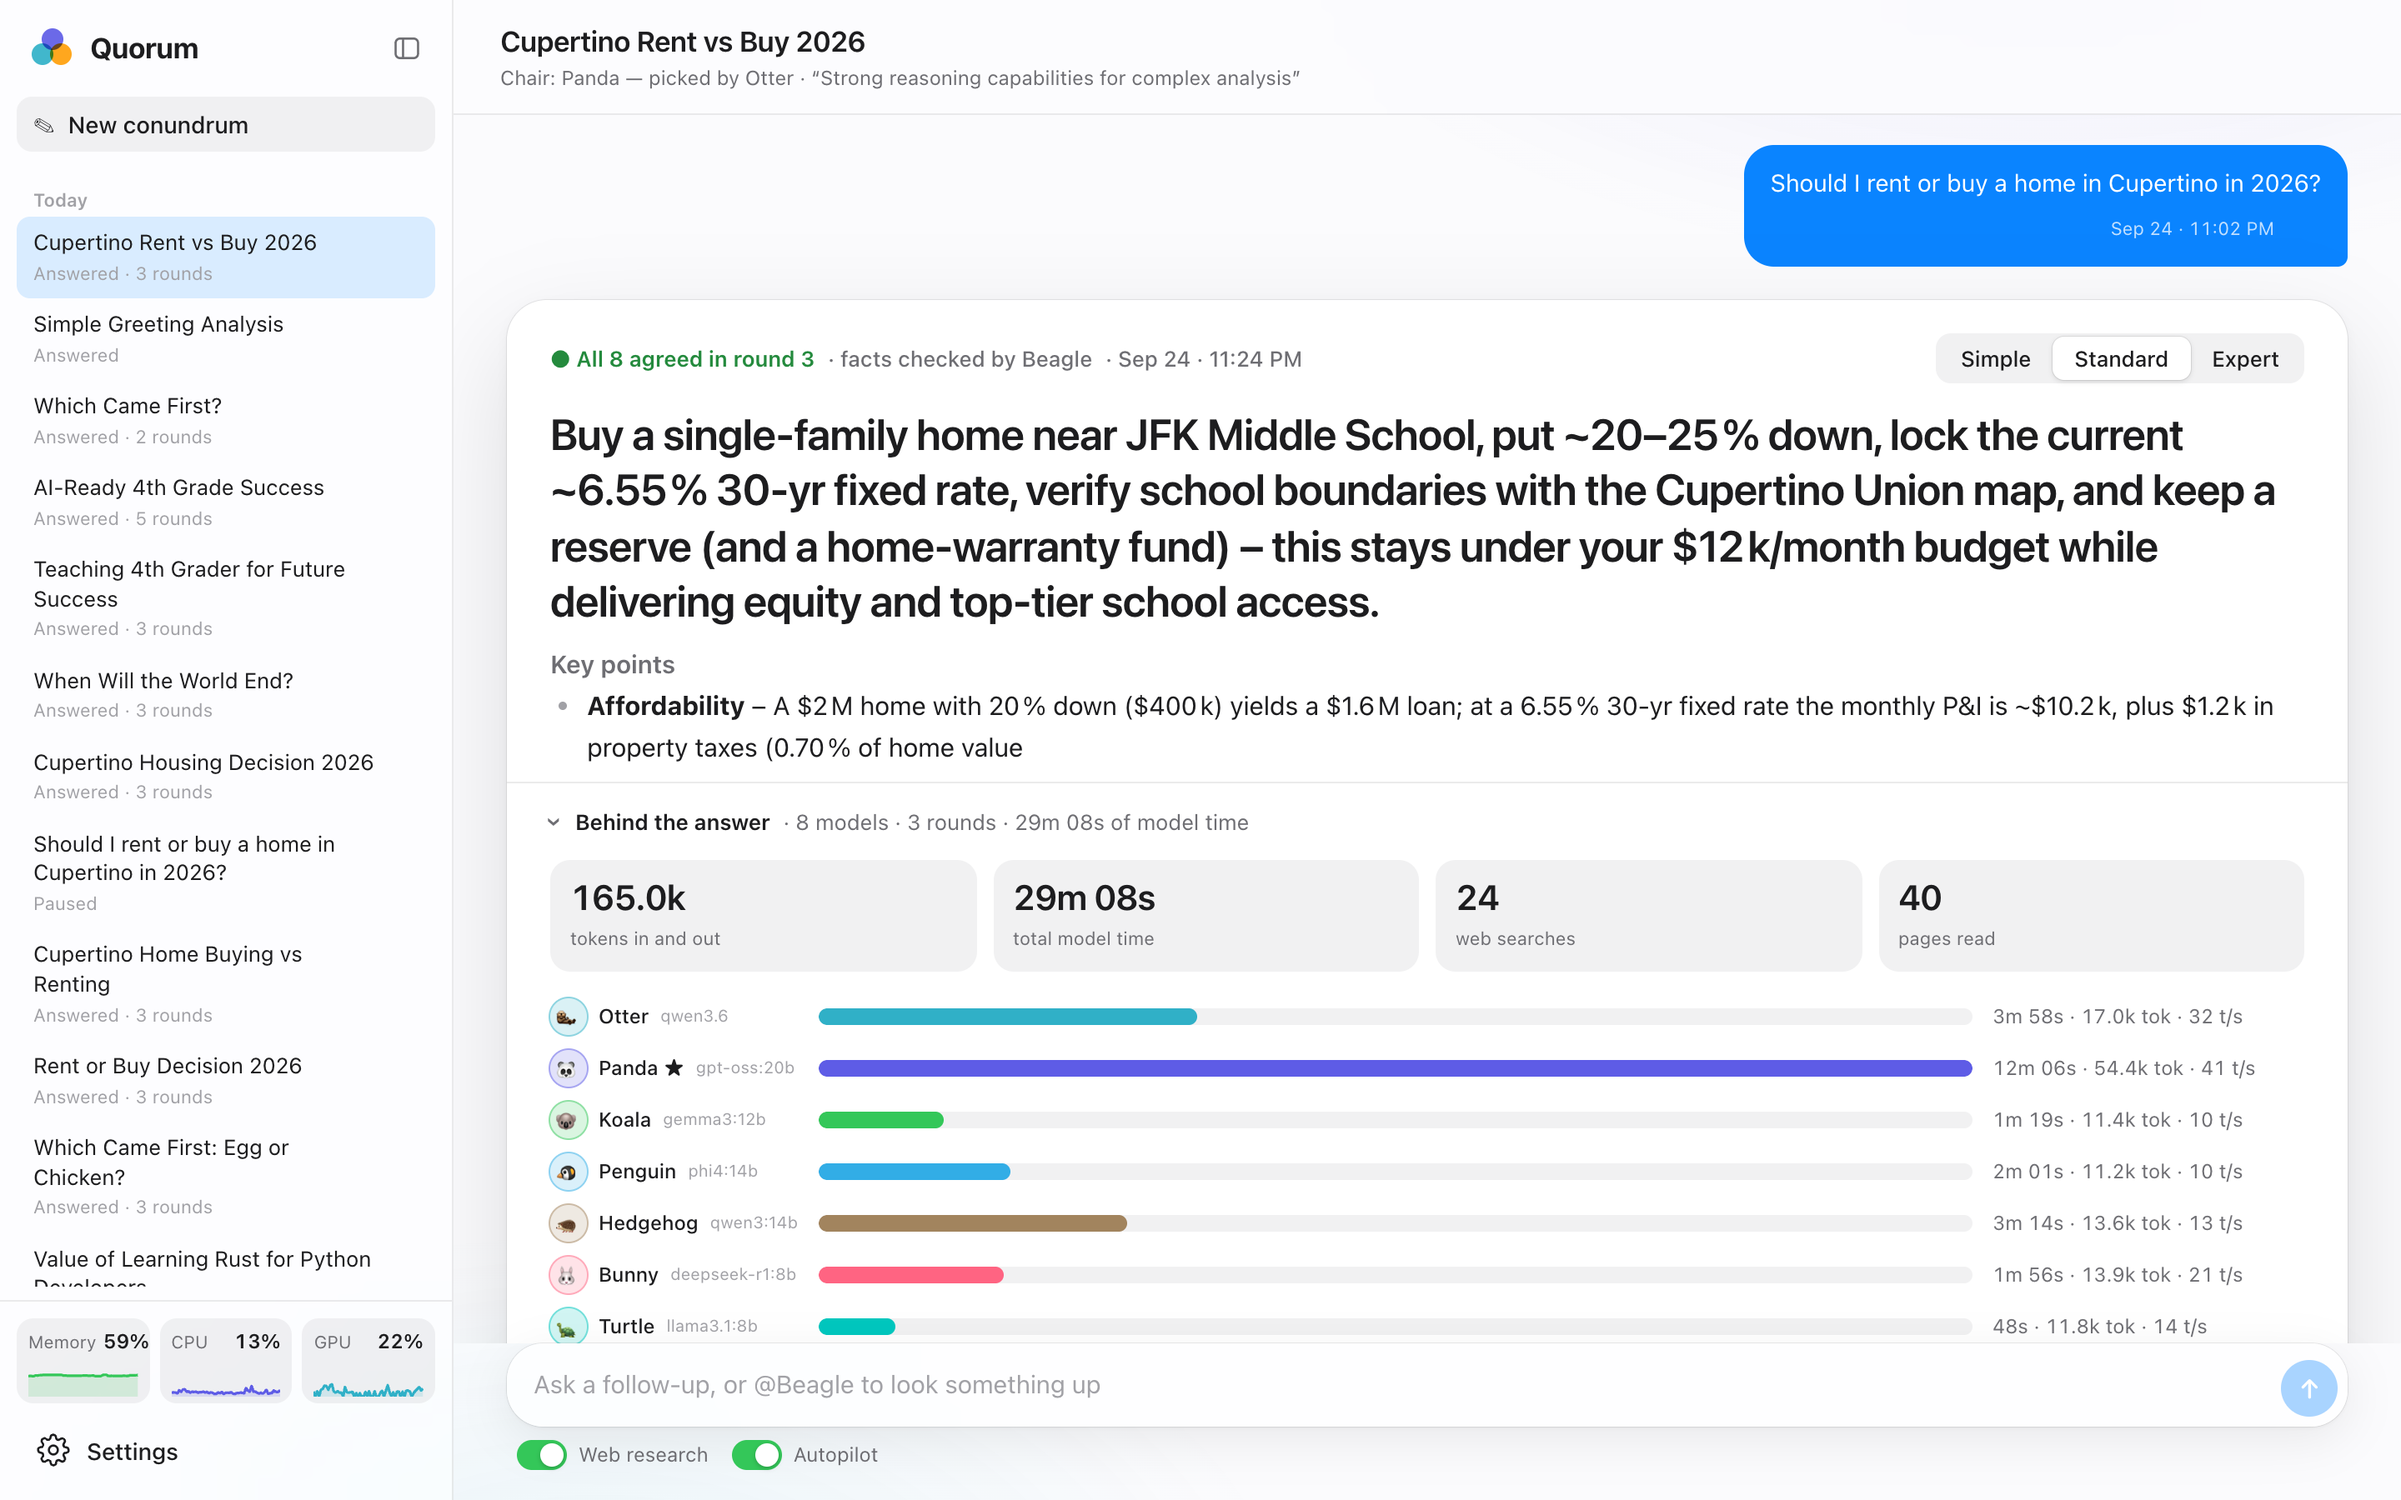
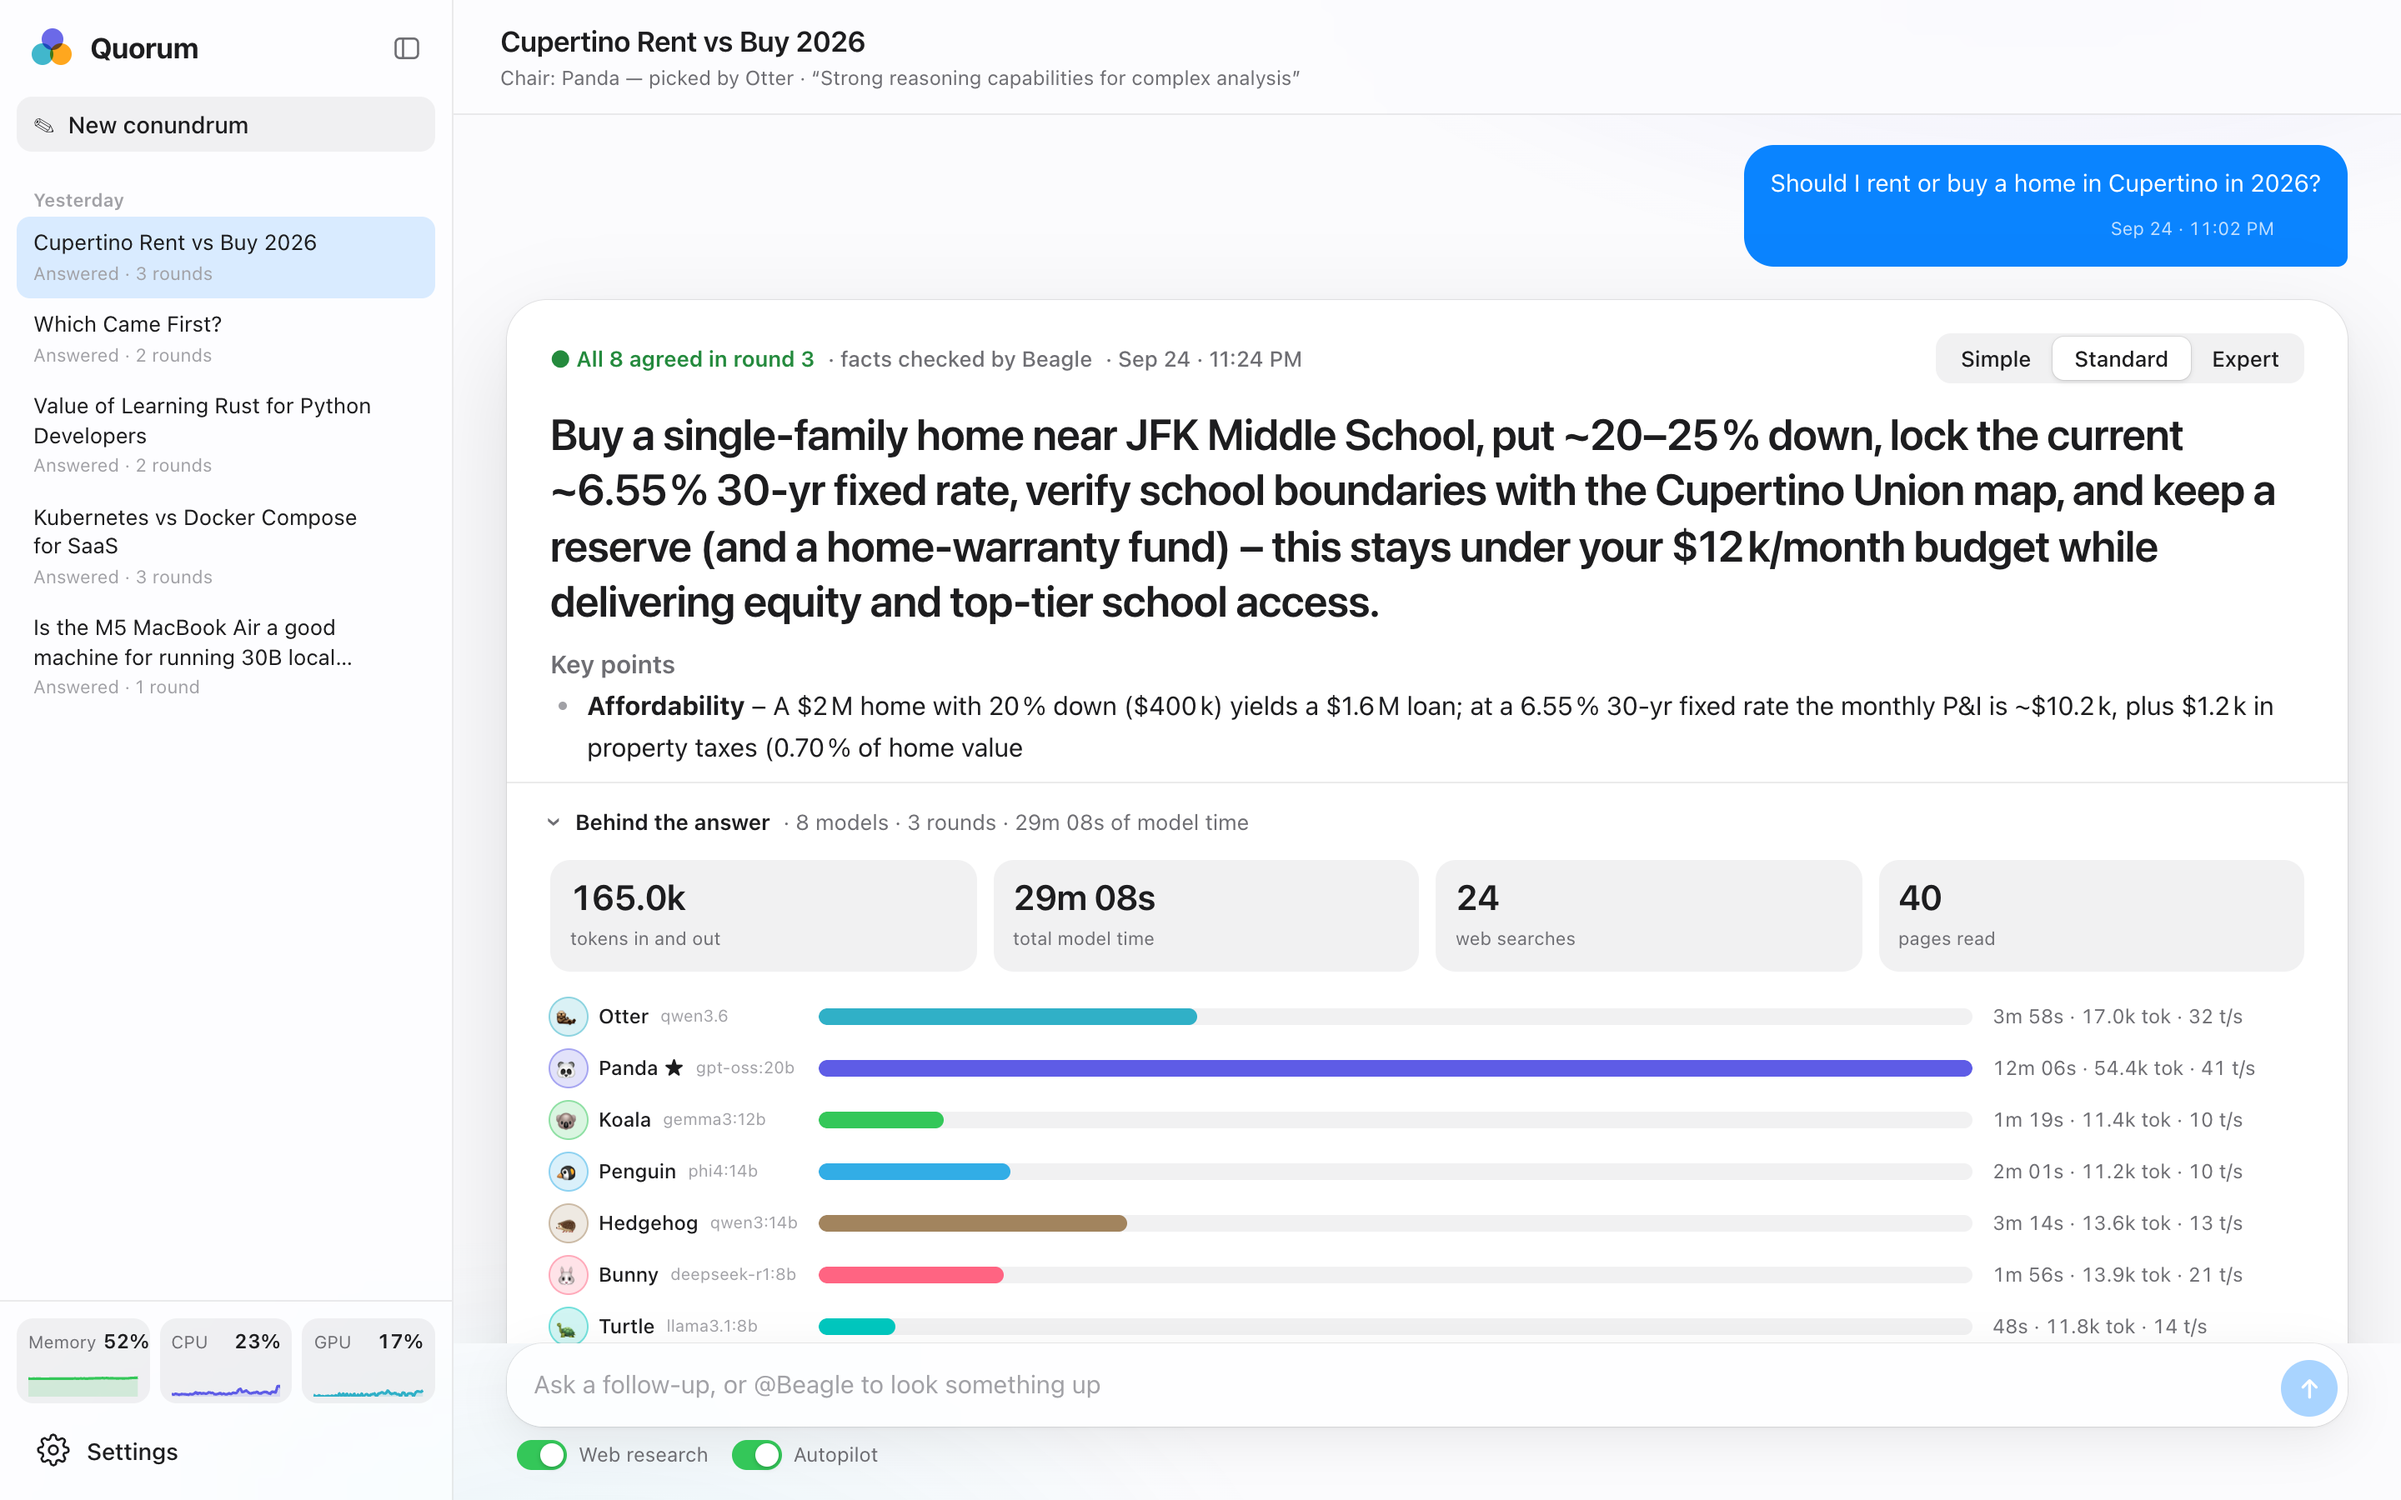
README: organize screenshots as a tour; keep showcase history only; simplify license line

diff --git a/scripts/screenshots.py b/scripts/screenshots.py
@@ -1,25 +1,42 @@
 """Capture README screenshots from a running Quorum (./start.sh) with Playwright.
 
-    uv run --with playwright python scripts/screenshots.py --answer <debate-id> [--clarify <debate-id>]
+    uv run --with playwright python scripts/screenshots.py --answer <debate-id> [--clarify <debate-id>] \
+        [--show <debate-id> ...]
 
 Uses your installed Google Chrome (no browser download). Images go to docs/images/.
+The sidebar only lists the conundrums given with --answer, --clarify and --show, so your other history stays private.
 """
 
 import argparse
 import asyncio
+import json
 import os
 
 from playwright.async_api import async_playwright
 
 BASE = "http://localhost:5173"
 OUT = os.path.join(os.path.dirname(__file__), "..", "docs", "images")
+QUESTION = "Should I rent or buy a home in Cupertino in 2026?"
+SHOWCASE: set[str] = set()
+
+
+async def only_showcase(route):
+    """Serve the sidebar's conundrum list with only the showcase entries."""
+    if route.request.method != "GET":
+        return await route.continue_()
+    response = await route.fetch()
+    debates = [d for d in await response.json() if d["id"] in SHOWCASE]
+    await route.fulfill(response=response, body=json.dumps(debates))
 
 
 async def shot(browser, name, url, *, dark=False, width=1440, height=900, prepare=None, wait=1500):
-    ctx = await browser.new_context(viewport={"width": width, "height": height}, device_scale_factor=2,
-                                    color_scheme="dark" if dark else "light")
+    ctx = await browser.new_context(
+        viewport={"width": width, "height": height}, device_scale_factor=2, color_scheme="dark" if dark else "light"
+    )
     await ctx.add_init_script("localStorage.setItem('quorum.onboarded', '1')")
     page = await ctx.new_page()
+    if SHOWCASE:
+        await page.route(f"{BASE}/api/debates", only_showcase)
     await page.goto(url)
     await page.wait_for_timeout(wait)
     if prepare:
@@ -33,11 +50,12 @@ async def shot(browser, name, url, *, dark=False, width=1440, height=900, prepar
 
 async def main(args):
     os.makedirs(OUT, exist_ok=True)
+    SHOWCASE.update(i for i in [args.answer, args.clarify, *args.show] if i)
     async with async_playwright() as p:
         browser = await p.chromium.launch(channel="chrome")
 
         async def type_question(page):
-            await page.fill("textarea", "Which came first: the egg or the chicken?")
+            await page.fill("textarea", QUESTION)
 
         await shot(browser, "home-light", f"{BASE}/", prepare=type_question)
         await shot(browser, "home-dark", f"{BASE}/", dark=True, prepare=type_question)
@@ -47,28 +65,28 @@ async def main(args):
             url = f"{BASE}/#q/{args.answer}"
             await shot(browser, "answer-light", url, wait=2500)
 
-            async def open_metrics(page):
-                await page.evaluate("document.querySelector('.behind').open = true;"
-                                    "document.querySelector('.behind').scrollIntoView({block: 'end'})")
-            await shot(browser, "metrics", url, wait=2500, prepare=open_metrics)
-
             async def open_expert(page):
                 await page.click("button:has-text('Expert')")
                 await page.wait_for_selector(".diagram svg", timeout=120000)
                 await page.evaluate("document.querySelector('.diagram').scrollIntoView({block: 'center'})")
+
             await shot(browser, "expert", url, wait=2500, prepare=open_expert)
 
-
         if args.clarify:
+
             async def to_summary(page):
                 if await page.query_selector(".how"):  # answered: the interview is inside the collapsed debate
                     await page.click(".how")
                     await page.wait_for_timeout(400)
-                await page.evaluate("[...document.querySelectorAll('.bubble.summary')].pop()?.scrollIntoView({block: 'end'})")
+                await page.evaluate(
+                    "[...document.querySelectorAll('.bubble.summary')].pop()?.scrollIntoView({block: 'end'})"
+                )
+
             await shot(browser, "clarify", f"{BASE}/#q/{args.clarify}", wait=2500, prepare=to_summary)
 
         async def open_activity(page):
             await page.click(".res-card")
+
         await shot(browser, "activity", f"{BASE}/#settings/models", wait=4000, prepare=open_activity)
         await shot(browser, "settings", f"{BASE}/#settings/providers", wait=2500)
         await browser.close()
@@ -78,4 +96,5 @@ if __name__ == "__main__":
     ap = argparse.ArgumentParser()
     ap.add_argument("--answer", help="id of a concluded debate")
     ap.add_argument("--clarify", help="id of a debate whose chair asked questions")
+    ap.add_argument("--show", nargs="*", default=[], help="more debate ids to list in the sidebar")
     asyncio.run(main(ap.parse_args()))

diff --git a/README.md b/README.md
@@ -62,20 +62,62 @@ A full-length recording is in [docs/images/demo.mp4](docs/images/demo.mp4).
   any OpenAI-compatible API with your own key. Cloud models are never picked automatically.
 - **A native-feeling app.** Light and dark mode, glass materials, and layouts from phone to ultrawide.
 
-## Screenshots
+## Tour
 
-| | |
-|:---:|:---:|
-| <img src="docs/images/home-light.png" alt="Home"> | <img src="docs/images/welcome.png" alt="First-launch walkthrough"> |
-| Every model you have joins the council | A two-minute first-launch setup |
-| <img src="docs/images/clarify.png" alt="The chair's clarifying questions"> | <img src="docs/images/answer-light.png" alt="A final answer"> |
-| The chair clarifies first | One clear answer, bottom line first |
-| <img src="docs/images/expert.png" alt="The Expert view with a diagram"> | <img src="docs/images/home-dark.png" alt="Home in dark mode"> |
-| The Expert view adds a diagram | Dark mode |
-| <img src="docs/images/metrics.png" alt="Behind the answer metrics"> | <img src="docs/images/activity.png" alt="Live Memory, CPU and GPU charts"> |
-| Tokens, time and searches per model | Live Memory, CPU and GPU |
-| <img src="docs/images/settings.png" alt="Settings"> | |
-| Local and cloud providers | |
+One real conundrum, *Should I rent or buy a home in Cupertino in 2026?*, answered by eight local models on a
+MacBook Pro. Click any image to see it full size.
+
+### 1. Ask
+
+<table>
+<tr>
+<td width="50%"><img src="docs/images/home-light.png" width="100%" alt="The home screen with the question typed and the council below it"></td>
+<td width="50%"><img src="docs/images/home-dark.png" width="100%" alt="The home screen in dark mode"></td>
+</tr>
+<tr>
+<td width="50%" valign="top"><b>Just type</b><br>Every model you have installed joins the council as an animal agent. Beagle 🐶 does the research.</td>
+<td width="50%" valign="top"><b>Light or dark</b><br>Follows your system appearance, from phone to ultrawide.</td>
+</tr>
+</table>
+
+### 2. Clarify and debate
+
+<table>
+<tr>
+<td width="50%"><img src="docs/images/clarify.png" width="100%" alt="The chair's clarifying questions and its summary of assumptions"></td>
+<td width="50%"><img src="docs/images/activity.png" width="100%" alt="Live Memory, CPU and GPU charts"></td>
+</tr>
+<tr>
+<td width="50%" valign="top"><b>The chair asks first</b><br>Up to three questions, one at a time, then a summary of assumptions for you to confirm.</td>
+<td width="50%" valign="top"><b>Watch your machine work</b><br>Live Memory, CPU and GPU charts while the council debates.</td>
+</tr>
+</table>
+
+### 3. Get one answer
+
+<table>
+<tr>
+<td width="50%"><img src="docs/images/answer-light.png" width="100%" alt="The final answer with its bottom line, reading levels and metrics"></td>
+<td width="50%"><img src="docs/images/expert.png" width="100%" alt="The Expert view with a decision diagram"></td>
+</tr>
+<tr>
+<td width="50%" valign="top"><b>Bottom line first</b><br>Key points, where the agents differed, reading levels, and the tokens and time behind it.</td>
+<td width="50%" valign="top"><b>Expert adds a diagram</b><br>The chair draws the decision when a picture helps.</td>
+</tr>
+</table>
+
+### 4. Set up once
+
+<table>
+<tr>
+<td width="50%"><img src="docs/images/welcome.png" width="100%" alt="The first-launch walkthrough"></td>
+<td width="50%"><img src="docs/images/settings.png" width="100%" alt="Local servers and cloud providers in Settings"></td>
+</tr>
+<tr>
+<td width="50%" valign="top"><b>Two-minute setup</b><br>Checks Ollama, downloads a starter council sized for your machine, and turns on web search.</td>
+<td width="50%" valign="top"><b>Local first, cloud optional</b><br>Ollama, LM Studio and llama.cpp are found automatically. Cloud models need your own key.</td>
+</tr>
+</table>
 
 ## Requirements
 
@@ -280,4 +322,4 @@ Contributions are welcome; see [CONTRIBUTING.md](CONTRIBUTING.md).
 
 ## License
 
-[MIT](LICENSE) © 2026 Deepak Vijayan. Third-party licenses are listed in [THIRD_PARTY_NOTICES.md](THIRD_PARTY_NOTICES.md).
+Quorum is released under the [MIT License](LICENSE). Third-party licenses are listed in [THIRD_PARTY_NOTICES.md](THIRD_PARTY_NOTICES.md).
